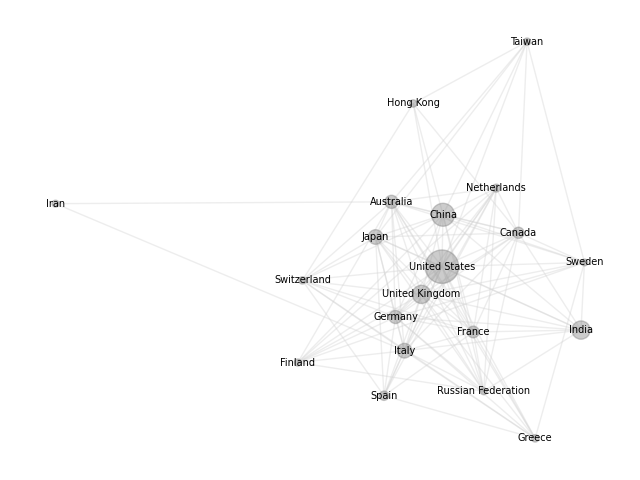
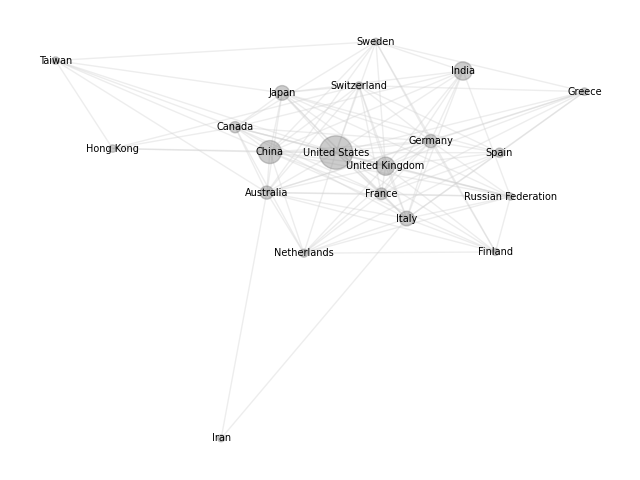
AHORA SI

diff --git a/tests/test_homework.py b/tests/test_homework.py
@@ -1,141 +1,37 @@
-# flake8: noqa: E501
 """Autograding script."""
 
-import gzip
-import json
 import os
-import pickle
 
 import pandas as pd  # type: ignore
 
-# ------------------------------------------------------------------------------
-MODEL_FILENAME = "files/models/model.pkl.gz"
-MODEL_COMPONENTS = [
-    "OneHotEncoder",
-    "PCA",
-    "StandardScaler",
-    "SelectKBest",
-    "MLPClassifier",
-]
-SCORES = [
-    0.661,
-    0.666,
-]
-METRICS = [
-    {
-        "type": "metrics",
-        "dataset": "train",
-        "precision": 0.691,
-        "balanced_accuracy": 0.661,
-        "recall": 0.370,
-        "f1_score": 0.482,
-    },
-    {
-        "type": "metrics",
-        "dataset": "test",
-        "precision": 0.673,
-        "balanced_accuracy": 0.661,
-        "recall": 0.370,
-        "f1_score": 0.482,
-    },
-    {
-        "type": "cm_matrix",
-        "dataset": "train",
-        "true_0": {"predicted_0": 15440, "predicted_1": None},
-        "true_1": {"predicted_0": None, "predicted_1": 1735},
-    },
-    {
-        "type": "cm_matrix",
-        "dataset": "test",
-        "true_0": {"predicted_0": 6710, "predicted_1": None},
-        "true_1": {"predicted_0": None, "predicted_1": 730},
-    },
-]
+from homework.country_collaboration import make_plot
 
 
-# ------------------------------------------------------------------------------
-#
-# Internal tests
-#
-def _load_model():
-    """Generic test to load a model"""
-    assert os.path.exists(MODEL_FILENAME)
-    with gzip.open(MODEL_FILENAME, "rb") as file:
-        model = pickle.load(file)
-    assert model is not None
-    return model
+def test_01():
+    """Test the country_collaboration module."""
 
+    make_plot(n_countries=20)
 
-def _test_components(model):
-    """Test components"""
-    assert "GridSearchCV" in str(type(model))
-    current_components = [str(model.estimator[i]) for i in range(len(model.estimator))]
-    for component in MODEL_COMPONENTS:
-        assert any(component in x for x in current_components)
+    #
+    # Retorna error si la carpeta output/ no existe
+    if not os.path.exists("files/countries.csv"):
+        raise FileNotFoundError("File 'files/countries.csv' not found")
 
+    #
+    # Lee el contenido del archivo output.txt
+    dataframe = pd.read_csv("files/countries.csv")
+    dataframe = dataframe.set_index("countries")
 
-def _load_grading_data():
-    """Load grading data"""
-    with open("files/grading/x_train.pkl", "rb") as file:
-        x_train = pickle.load(file)
+    assert dataframe["count"]["United States"] == 579
+    assert dataframe["count"]["China"] == 273
+    assert dataframe["count"]["India"] == 174
+    assert dataframe["count"]["United Kingdom"] == 173
+    assert dataframe["count"]["Italy"] == 112
 
-    with open("files/grading/y_train.pkl", "rb") as file:
-        y_train = pickle.load(file)
+    #
+    #
+    if not os.path.exists("files/co_occurrences.csv"):
+        raise FileNotFoundError("File 'files/co_occurrences.csv' not found")
 
-    with open("files/grading/x_test.pkl", "rb") as file:
-        x_test = pickle.load(file)
-
-    with open("files/grading/y_test.pkl", "rb") as file:
-        y_test = pickle.load(file)
-
-    return x_train, y_train, x_test, y_test
-
-
-def _test_scores(model, x_train, y_train, x_test, y_test):
-    """Test scores"""
-    assert model.score(x_train, y_train) > SCORES[0]
-    assert model.score(x_test, y_test) > SCORES[1]
-
-
-def _load_metrics():
-    assert os.path.exists("files/output/metrics.json")
-    metrics = []
-    with open("files/output/metrics.json", "r", encoding="utf-8") as file:
-        for line in file:
-            metrics.append(json.loads(line))
-    return metrics
-
-
-def _test_metrics(metrics):
-
-    for index in [0, 1]:
-        assert metrics[index]["type"] == METRICS[index]["type"]
-        assert metrics[index]["dataset"] == METRICS[index]["dataset"]
-        assert metrics[index]["precision"] > METRICS[index]["precision"]
-        assert metrics[index]["balanced_accuracy"] > METRICS[index]["balanced_accuracy"]
-        assert metrics[index]["recall"] > METRICS[index]["recall"]
-        assert metrics[index]["f1_score"] > METRICS[index]["f1_score"]
-
-    for index in [2, 3]:
-        assert metrics[index]["type"] == METRICS[index]["type"]
-        assert metrics[index]["dataset"] == METRICS[index]["dataset"]
-        assert (
-            metrics[index]["true_0"]["predicted_0"]
-            > METRICS[index]["true_0"]["predicted_0"]
-        )
-        assert (
-            metrics[index]["true_1"]["predicted_1"]
-            > METRICS[index]["true_1"]["predicted_1"]
-        )
-
-
-def test_homework():
-    """Tests"""
-
-    model = _load_model()
-    x_train, y_train, x_test, y_test = _load_grading_data()
-    metrics = _load_metrics()
-
-    _test_components(model)
-    _test_scores(model, x_train, y_train, x_test, y_test)
-    _test_metrics(metrics)
+    if not os.path.exists("files/network.png"):
+        raise FileNotFoundError("File 'files/network.pmg' not found")
